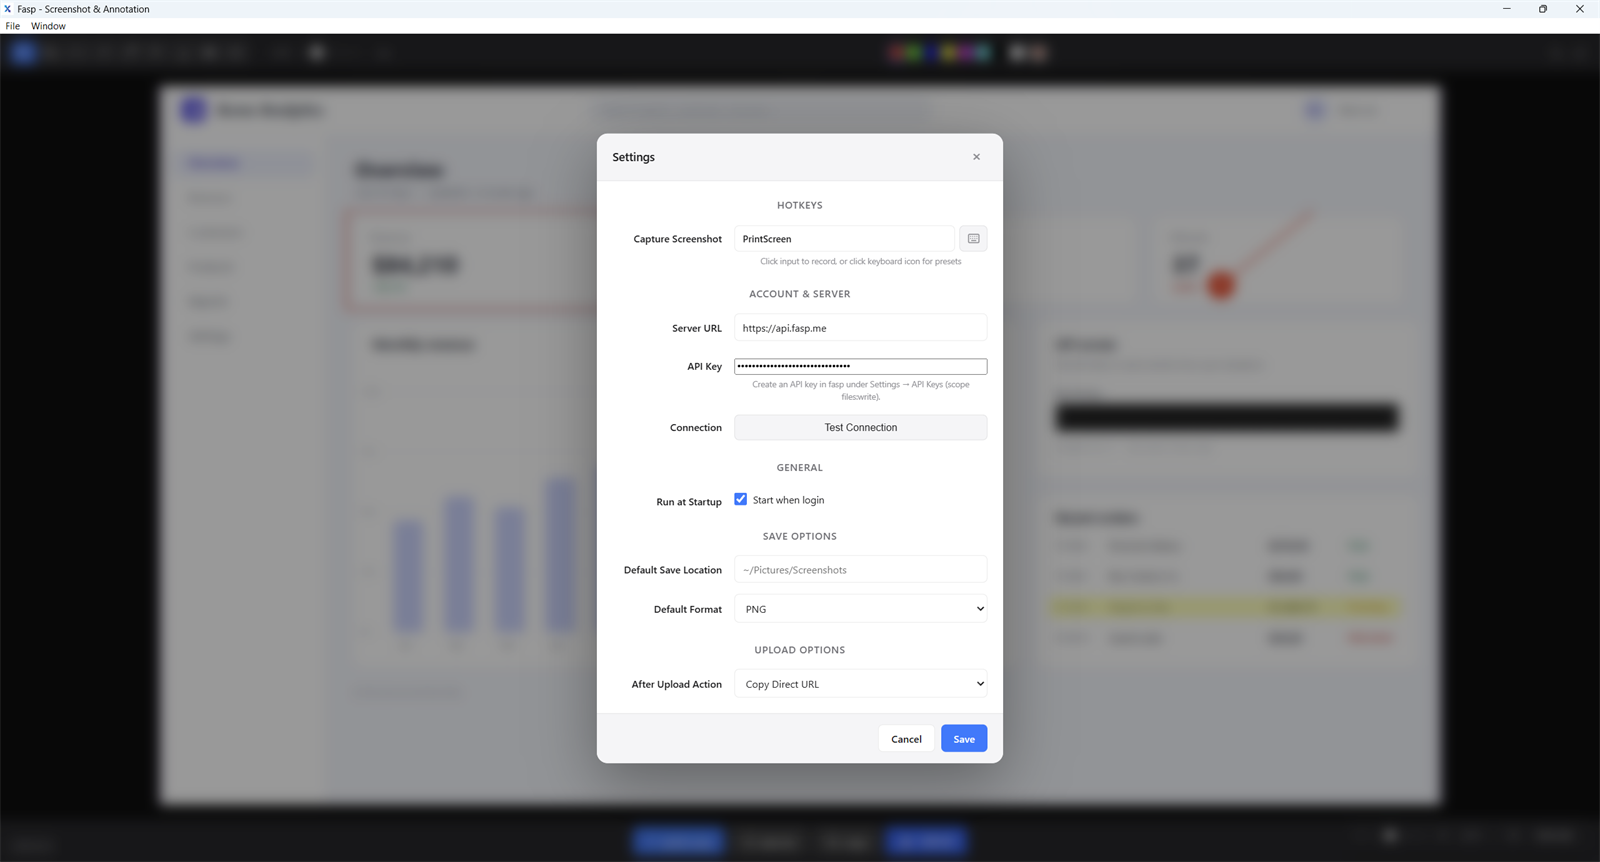
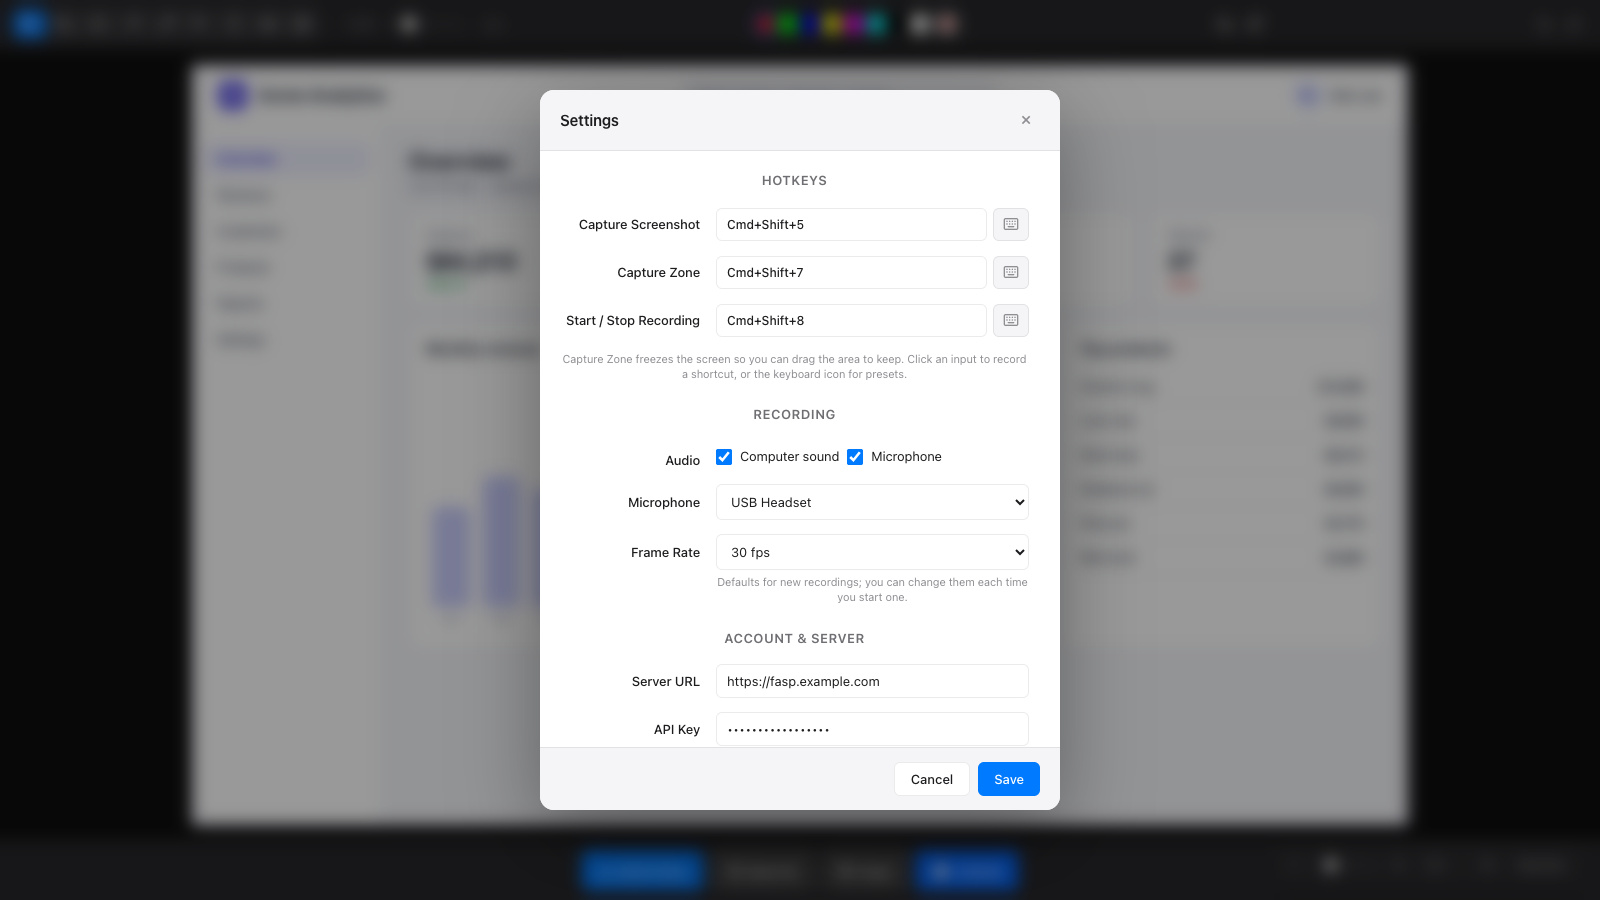
docs: README for the new editor and capture features, new screenshots
Highlight spotlight, corner options, backdrop, clicking a window in Capture
Zone, hotkeys that keep Fasp in the shot, release signing; screenshots of
the multi-image canvas, record dialog, player, settings, backdrop and the
Capture Zone window highlight.

diff --git a/README.md b/README.md
@@ -15,6 +15,7 @@
 - **Screen recording**: record the full screen, one window or a region to MP4 (H.264 + AAC), with computer sound and/or a microphone, using the native hardware encoder. Fasp's own recording bar never appears in the video.
 - **Built-in player**: a recording opens in the editor's player, ready to copy as a file, save or upload.
 - **Crop** after capturing, before you share.
+- **Backdrop**: put the shot on a background with a margin, rounded corners and a shadow, ready to post.
 - **Zoom and pan**: zoom with Ctrl + mouse wheel, hold Shift and drag to move around a large capture.
 - **Copy, save or upload**: copy to the clipboard, quick-save to a folder, save as PNG or JPEG, or upload to a fasp server and get a link.
 - **Tray icon** with recent screenshots, and an option to start at login.
@@ -50,7 +51,7 @@ Requires macOS 14 (Sonoma) or later, on Apple Silicon or Intel.
 
 The first time you record with the **Microphone** ticked, macOS asks for microphone access; click **Allow**. If you clicked **Don't Allow**, turn **fasp** on under **System Settings → Privacy & Security → Microphone**.
 
-**After updating**, repeat steps 3 and 4: because the app is not signed with a Developer ID, macOS treats each version as a new app and drops the old Screen Recording permission. If the toggle is already on but captures fail, remove **fasp** from that list with **−** (or run `tccutil reset ScreenCapture com.wails.fasp`) and grant it again.
+**After updating**, repeat step 3. Screen Recording stays allowed: releases are signed with the same certificate every time, so macOS sees the new version as the same app. The one exception is the first update from v26.11.4 or older, which were signed differently: grant Screen Recording once more. If the toggle is already on but captures fail, remove **fasp** from that list with **−** (or run `tccutil reset ScreenCapture com.wails.fasp`) and grant it again.
 
 You can also build it yourself; see [Development](#development).
 
@@ -66,7 +67,7 @@ You can also build it yourself; see [Development](#development).
 | Start / stop recording | `Ctrl+PrintScreen` | `Cmd+Shift+8` |
 
 Both capture the screen under the mouse cursor and open it in the editor with the **Crop** tool ready: drag to keep part of it, or pick another tool to annotate the whole capture.
-The editor hides itself first, so it never appears in its own screenshot.
+A hotkey (or the tray menu) takes the screen as it is: if the editor is open, it is in the shot, which is handy for showing Fasp itself. The **Capture** buttons inside Fasp and **Add screenshot** in the editor hide the editor first, so it is not in those shots.
 
 You can also capture from the tray menu or **File → Capture Screenshot**, and open an existing image with **File → Open Image…** (`Ctrl+O`).
 
@@ -76,7 +77,12 @@ Press the **Capture Zone** hotkey (or **File → Capture Zone**, or the tray men
 
 Because the picture is taken the moment you press the hotkey, you can grab things that disappear as soon as you click: an open menu, a tooltip, a hover state, a frame of a video.
 
-- `Enter` takes the whole screen, `Esc` or a right-click cancels (the editor comes back if it was open).
+- Click without dragging to take the window under the mouse. Before you click, that window is shown undimmed with a border and its size, so you see what you will get.
+
+  ![Capture Zone with the mouse over a window: the window is undimmed with a blue border and its size, the rest of the screen is dimmed](docs/screenshots/zone-click-window.png)
+
+  Only the part of the window you see on the frozen screen is taken: whatever covered the window then is in the picture too. A click on the desktop does nothing.
+- `Enter` takes the whole screen, `Esc` or a right-click cancels: the screen stays as it was and the app you were in keeps the focus. The editor comes back only if you started from it.
 - A size label shows the selection in pixels while you drag.
 - With several displays, the display under the mouse freezes.
 - If the editor already holds a shot, the new zone replaces it. To keep the current shot and add another one next to it, use **Add screenshot** in the editor instead (see [Several images on one canvas](#several-images-on-one-canvas)).
@@ -89,7 +95,9 @@ Press the **Start / stop recording** hotkey (or **File → Record Screen…**, o
 |---|---|
 | Full screen | The screen under the mouse pointer |
 | Window | One window, picked from a list, even while other windows cover it. Recording stops by itself when the window closes |
-| Region | An area you drag on the frozen screen after pressing **Select Region** |
+| Region | An area you drag on the frozen screen after pressing **Select Region**, or the area of the window you click there |
+
+![Record Screen dialog with Window mode selected, a window list, audio sources and frame rate](docs/screenshots/record-dialog.png)
 
 Pick the frame rate (15, 30 or 60 fps), then tick **Computer sound** (everything the computer plays) and/or **Microphone** (pick the device). Both are mixed into one audio track. With speakers, the microphone also hears the computer sound, so use headphones to avoid an echo. Your choices become the defaults for the next recording.
 
@@ -98,6 +106,8 @@ On macOS, computer sound needs no extra permission (it comes with Screen Recordi
 While recording, Fasp shrinks to a small bar at the top of the screen with a timer and **Stop**. The bar never appears in the video. Press the hotkey again, click **Stop**, or use the tray menu to finish.
 
 The MP4 is saved in the Quick Save folder (`Recording_<date>_<time>.mp4`) and opens right away in the editor's player, just as a screenshot opens in the editor:
+
+![A recording open in the player, with Copy, Save As, Show in Folder and Upload](docs/screenshots/video-player.png)
 
 | Button | Shortcut | Result |
 |---|---|---|
@@ -120,12 +130,12 @@ Pick a tool in the toolbar or press its key, choose a colour and a size, then dr
 |---|---|---|
 | Select | `S` | Select, move, resize and rotate annotations; drag on empty space to select several |
 | Crop | `C` | Drag the area to keep, then **Apply Crop** (`Enter`) or **Cancel** (`Esc`). Crops the selected image, or the whole canvas when no image is selected |
-| Rectangle | `R` | Outline an area |
+| Rectangle | `R` | Outline an area. **Corners** in the toolbar rounds the corners of new rectangles, or of the selected one |
 | Arrow | `A` | Point at something |
 | Numbered arrow | `N` | Arrow with a step number that counts up: 1, 2, 3… |
 | Arrow with text | `W` | Arrow with a label at its tail |
 | Text | `T` | Drag a box and type; `Enter` adds a line, `Esc` or clicking away finishes |
-| Highlight | `H` | Translucent marker over text |
+| Highlight | `H` | Spotlight: the box stays bright and the rest of the picture is dimmed. Several boxes stay bright together. While it is in use (or a highlight is selected) the toolbar shows **Darkness** (how dark the rest gets) and **Corners** (corner radius) |
 | Blur | `B` | Opaque pattern that hides passwords, keys and personal data |
 
 Size: `[` and `]`, or `Ctrl+1` … `Ctrl+5`. Undo `Ctrl+Z`, redo `Ctrl+Shift+Z`. Delete the selection with `Delete`, `Backspace` or `Ctrl+D`; select everything with `Ctrl+A`. Paste an image from the clipboard with `Ctrl+V`.
@@ -134,7 +144,11 @@ Size: `[` and `]`, or `Ctrl+1` … `Ctrl+5`. Undo `Ctrl+Z`, redo `Ctrl+Shift+Z`.
 
 ### Several images on one canvas
 
-One shot can hold several images, for example two screens side by side or a before/after pair. Add one with:
+One shot can hold several images, for example two screens side by side or a before/after pair.
+
+![Two screenshots side by side on one canvas with a coloured background, a box, numbered arrows and a highlight](docs/screenshots/multi-image.png)
+
+Add one with:
 
 | Way | Result |
 |---|---|
@@ -152,6 +166,18 @@ With the **Select** tool, click an image to select it, then:
 With two or more images, the **Arrange in a row**, **Arrange in a column** and **Arrange in a grid** buttons line them up, and the gap field next to them sets the space between them. The canvas grows to fit the images, and the **Canvas background color** fills the space around them.
 
 Copy, Save and Upload export the whole canvas at the images' full resolution. Undo and redo cover every image change.
+
+### Backdrop for sharing
+
+Click **Backdrop** in the toolbar to put the shot on a background before you share it. Copy, Save and Upload then export the shot with the background around it.
+
+![A screenshot exported with a backdrop: rounded corners and a soft shadow on a colourful gradient](docs/screenshots/backdrop.png)
+
+- Pick a background: twelve nature **Photos** (mountains, fog, aurora, dunes, sea), twelve **Colors** (gradients and soft colour blends), or **Choose image…** to use a picture of your own (kept until you quit Fasp). Picking one turns the backdrop on; untick **Put the shot on a background** to turn it off.
+- The photos are public domain (CC0) pictures from Wikimedia Commons; their authors and sources are listed in [`frontend/src/assets/backdrops/CREDITS.md`](frontend/src/assets/backdrops/CREDITS.md).
+- **Padding** sets the margin around the shot (a percentage of its longer side), **Corners** rounds the shot's corners, **Shadow** adds a soft shadow under it.
+- Sizes follow the shot, so a Retina capture and a small one look the same.
+- The backdrop stays on for the next shots until you turn it off. Annotations stay on the shot, and cropping crops the shot, not the backdrop.
 
 ### Zoom and pan
 
@@ -196,7 +222,7 @@ Settings are stored in `%APPDATA%\fasp\settings.json` on Windows and `~/Library/
 
 - **A hotkey does nothing (Windows).** Another app may own it. Windows 11 can reserve `PrintScreen` for the Snipping Tool: turn off **Settings → Accessibility → Keyboard → Use the Print screen key to open screen capture**, or pick another hotkey in Fasp.
 - **macOS won't open the app, or says it is damaged.** See step 3 of [Install → macOS](#macos): **Open Anyway** in Privacy & Security, or `xattr -dr com.apple.quarantine /Applications/fasp.app`.
-- **Captures are black or only show the wallpaper (macOS).** Grant **Screen Recording** permission and restart Fasp. After an update, remove fasp from the Screen Recording list and grant it again. For your own builds, `make build-darwin-signed` with a local certificate (`scripts/create-dev-certificate.sh`) keeps the permission across rebuilds.
+- **Captures are black or only show the wallpaper (macOS).** Grant **Screen Recording** permission and restart Fasp. If it is already on, remove fasp from the Screen Recording list and grant it again (needed once after updating from v26.11.4 or older). For your own builds, `make build-darwin-signed` with a local certificate (`scripts/create-dev-certificate.sh`) keeps the permission across rebuilds.
 - **Cmd+Shift+5 opens the macOS screenshot toolbar instead (macOS).** Pick another hotkey in Fasp Settings, or turn off that shortcut under **System Settings → Keyboard → Keyboard Shortcuts → Screenshots**.
 - **Recording says the microphone access is denied (Windows).** Turn on **Settings → Privacy & security → Microphone → Let desktop apps access your microphone**.
 - **Recording says microphone permission is required (macOS).** Turn **fasp** on under **System Settings → Privacy & Security → Microphone**, then start the recording again.
@@ -227,7 +253,9 @@ Without `make`, run the same `wails build` command with `GOTOOLCHAIN` set to tha
 
 1. Bump `Version` in `internal/version/version.go` (format `vYY.M.PATCH`) and merge it to `main`.
 2. Run `make release` (or `scripts/release.sh`): it tags the commit and pushes the tag.
-3. The Release workflow builds the Windows app and installer and the macOS app (universal, ad-hoc signed and zipped by `scripts/package-macos.sh`, then launched by `scripts/smoke-macos.sh`), and publishes them together as a GitHub release.
+3. The Release workflow builds the Windows app and installer and the macOS app (universal, signed with the "Fasp Dev" certificate and zipped by `scripts/package-macos.sh`, then launched by `scripts/smoke-macos.sh`), and publishes them together as a GitHub release.
+
+The macOS certificate lives in the repository secrets `MACOS_CERT_P12` and `MACOS_CERT_PASSWORD`. Store it once from a Mac that has it in the keychain (made by `scripts/create-dev-certificate.sh`) with `scripts/upload-signing-cert.sh`. A tag build fails without these secrets, so a release is never signed ad-hoc by accident; local builds signed by `make build-darwin-signed` use the same certificate and share the Screen Recording permission with releases.
 
 Every pull request also builds, packages and smoke-tests the macOS app; the zip is attached to the CI run as the `fasp-macos-universal` artifact for 7 days. To build release files without publishing, run the Release workflow by hand from the Actions tab.
 
